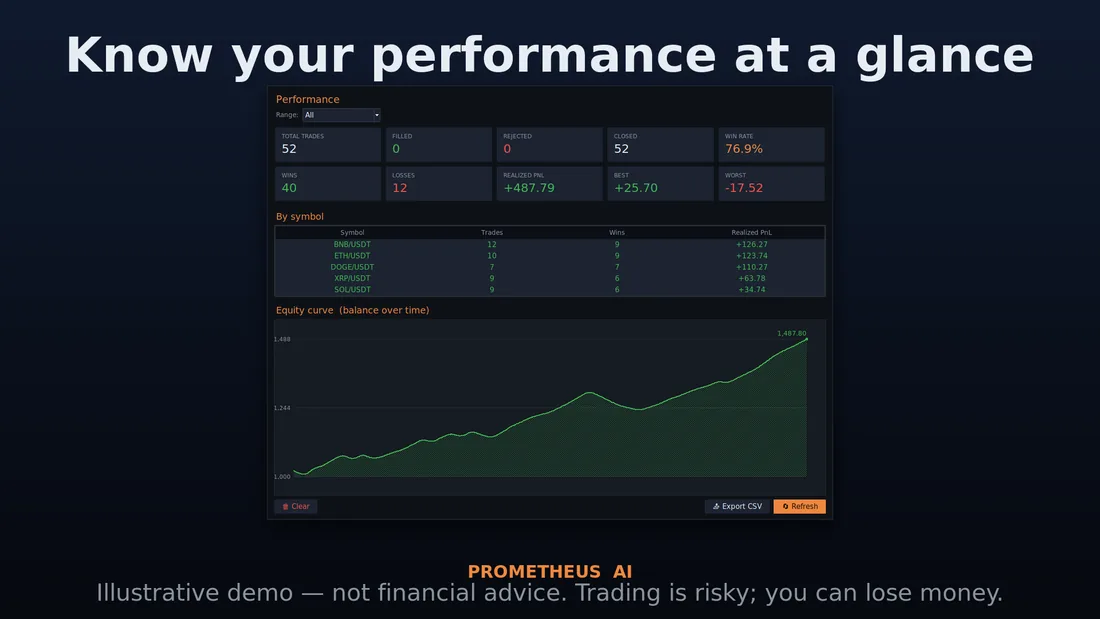
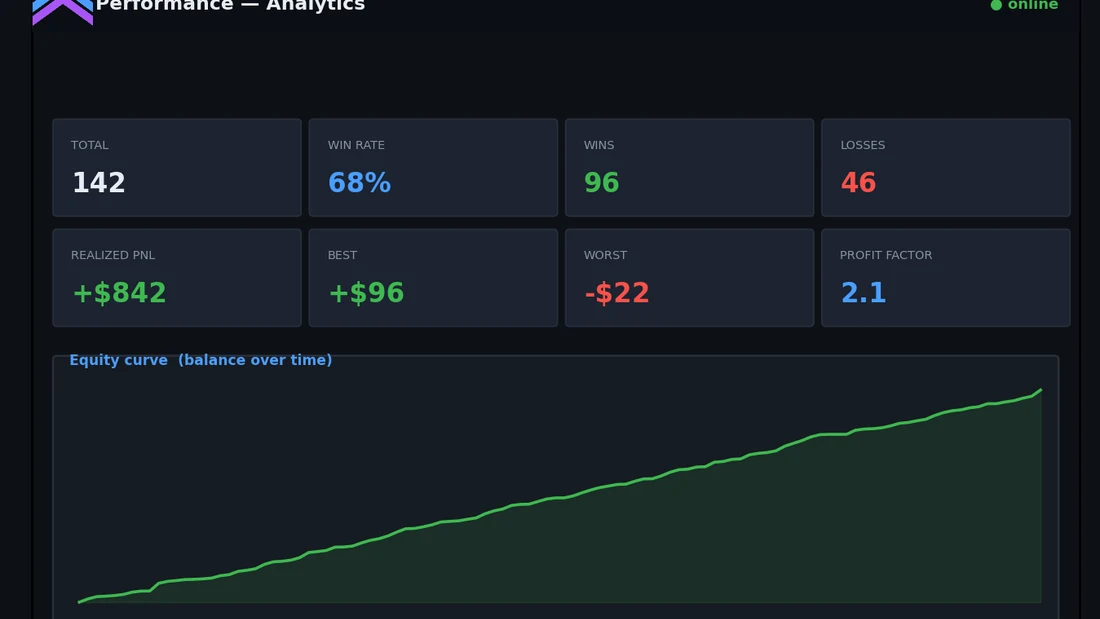
Trevolto: blue site screenshots + OG card, and Trevolto user-guide PDFs
Closes the two visible gaps:
- make_site_images.py regenerates the site's feature shots (feat-chart/
  analytics/backtest/settings.webp, chart-strategies.webp) from the blue
  Trevolto mockups, plus a branded og-trevolto.jpg (wordmark + tagline +
  blue app shot). site-trevolto/ no longer shows the orange Prometheus UI.
- Trevolto_QuickStart.pdf + Trevolto_CheatSheet.pdf built (blue accent) via
  make_user_guide.py.

Prometheus site/assets, Marketing Docs, and PDFs untouched.

diff --git a/trevolto/make_site_images.py b/trevolto/make_site_images.py
@@ -1,0 +1,70 @@
+"""Regenerate the Trevolto site's screenshots + OG card from the blue mockups.
+Writes into ../site-trevolto/assets/. Run: python make_site_images.py"""
+import os
+from PIL import Image, ImageDraw, ImageFilter
+
+HERE = os.path.dirname(os.path.abspath(__file__))
+DST = os.path.join(HERE, "..", "site-trevolto", "assets")
+BG = (14, 17, 23)
+TEAL, VIOLET = (45, 212, 191), (168, 85, 247)
+
+
+def cover(im, w, h):
+    s = max(w / im.width, h / im.height)
+    im = im.resize((round(im.width * s), round(im.height * s)), Image.LANCZOS)
+    x = (im.width - w) // 2
+    y = (im.height - h) // 2
+    return im.crop((x, y, x + w, y + h))
+
+
+def feat(src, name, w=1100, h=619):
+    im = Image.open(os.path.join(HERE, src)).convert("RGB")
+    cover(im, w, h).save(os.path.join(DST, name), "WEBP", quality=88)
+    print("wrote", name)
+
+
+def og(name="og-trevolto.jpg", w=1200, h=630):
+    # teal->violet diagonal-ish vertical gradient backdrop
+    bg = Image.new("RGB", (w, h))
+    px = bg.load()
+    for y in range(h):
+        t = y / h
+        base = tuple(int(BG[i] + (VIOLET[i] - BG[i]) * 0.18 * t) for i in range(3))
+        for x in range(w):
+            tx = x / w
+            px[x, y] = tuple(min(255, int(base[i] + (TEAL[i] - base[i]) * 0.10 * (1 - tx))) for i in range(3))
+    # screenshot thumbnail with shadow, right side
+    shot = Image.open(os.path.join(HERE, "gui_mockup.png")).convert("RGBA")
+    tw = int(w * 0.52)
+    shot = shot.resize((tw, int(shot.height * tw / shot.width)), Image.LANCZOS)
+    sx, sy = w - tw - 40, (h - shot.height) // 2
+    sh = Image.new("RGBA", bg.size, (0, 0, 0, 0))
+    ImageDraw.Draw(sh).rounded_rectangle([sx + 8, sy + 12, sx + tw + 8, sy + shot.height + 12], 14, fill=(0, 0, 0, 160))
+    bg = Image.alpha_composite(bg.convert("RGBA"), sh.filter(ImageFilter.GaussianBlur(18)))
+    bg.paste(shot, (sx, sy), shot)
+    # wordmark (use the transparent logo_wordmark on the left)
+    wm = Image.open(os.path.join(HERE, "logo_wordmark.png")).convert("RGBA")
+    ww = int(w * 0.42)
+    wm = wm.resize((ww, int(wm.height * ww / wm.width)), Image.LANCZOS)
+    bg.paste(wm, (56, 60), wm)
+    d = ImageDraw.Draw(bg)
+    from PIL import ImageFont
+    try:
+        font = ImageFont.truetype("/usr/local/lib/python3.11/dist-packages/matplotlib/mpl-data/fonts/ttf/DejaVuSans.ttf", 30)
+    except Exception:
+        font = ImageFont.load_default()
+    d.text((64, 250), "Automated crypto trading", fill=(230, 237, 243), font=font)
+    d.text((64, 292), "for Windows & macOS - start free.", fill=(176, 188, 200), font=font)
+    bg.convert("RGB").save(os.path.join(DST, name), quality=90)
+    print("wrote", name)
+
+
+if __name__ == "__main__":
+    feat("gui_chart.png", "feat-chart.webp")
+    feat("gui_analytics.png", "feat-analytics.webp")
+    feat("gui_backtest.png", "feat-backtest.webp")
+    feat("gui_mockup.png", "feat-settings.webp")
+    im = Image.open(os.path.join(HERE, "gui_chart.png")).convert("RGB")
+    cover(im, 387, 375).save(os.path.join(DST, "chart-strategies.webp"), "WEBP", quality=88)
+    print("wrote chart-strategies.webp")
+    og()
